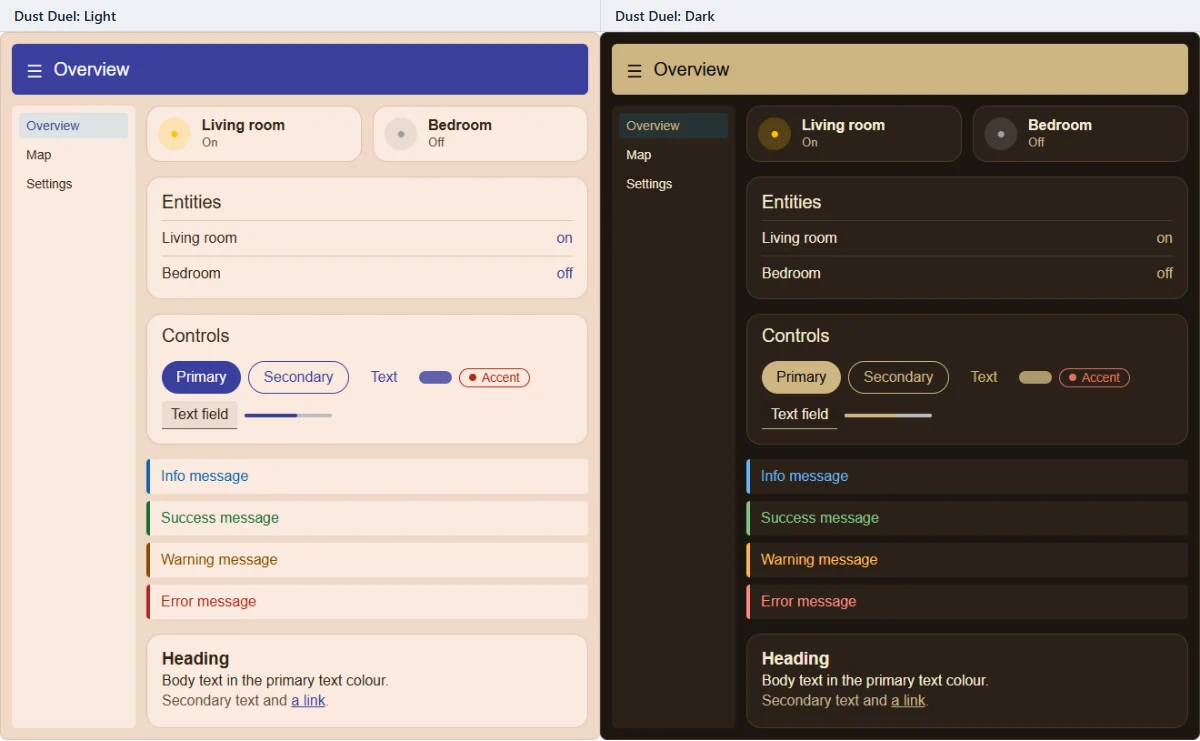
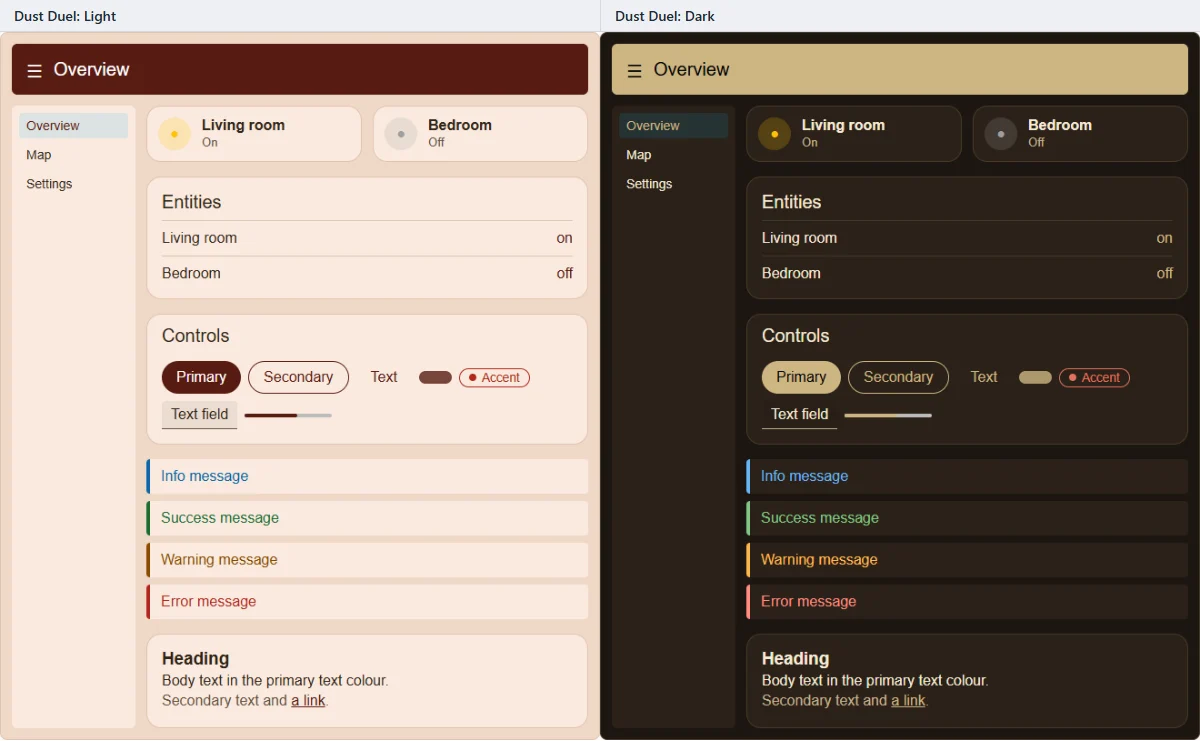
look-alike polish: every Sci-fi & fantasy header colour distinct (Dust Duel, Ochre Basin, Orbital Smelter, Ashen Keep, Silverleaf Glade), blurbs match the colours

diff --git a/src/theme-editor/presets/library.ts b/src/theme-editor/presets/library.ts
@@ -185,15 +185,15 @@ const PRESETS: ThemePreset[] = [
[17 lines of base64/hex data omitted]
 ];
 
 export const THEME_PRESET_LIBRARY: ThemePresetLibrary = { version: '1.1.0', presets: PRESETS };

diff --git a/documentation/themes/examples/README.md b/documentation/themes/examples/README.md
@@ -367,7 +367,7 @@ Off-white panels, burnt orange accent: navy ink by day, denim blue at night.
 
 ## Dust Duel
 
-Red-clay desert, indigo header, red accent; sand-gold by night.
+Red-clay desert, brick header, red accent; sand-gold by night.
 
 ![Dust Duel preview, light and dark modes side by side](images/dust-duel.webp)
 
@@ -385,19 +385,19 @@ Hot magenta and electric cyan neon on a dark city night.
 
 ## Ochre Basin
 
-Sun-baked ochre by day; at night an ochre glow on deep indigo.
+Sun-baked ochre, olive header; at night an ochre glow on deep indigo.
 
 ![Ochre Basin preview, light and dark modes side by side](images/ochre-basin.webp)
 
 ## Orbital Smelter
 
-Furnace-brown header on gunmetal steel with a coolant-cyan accent.
+Furnace-brown and steel-grey with a coolant-cyan accent; copper at night.
 
 ![Orbital Smelter preview, light and dark modes side by side](images/orbital-smelter.webp)
 
 ## Ashen Keep
 
-Charcoal iron and pale limestone with one deep red accent, calm and wintry.
+Charcoal iron and pale limestone; deep red accent, coral at night.
 
 ![Ashen Keep preview, light and dark modes side by side](images/ashen-keep.webp)
 
@@ -415,7 +415,7 @@ Oxblood red over a dark pine forest, moss-green panels, green-black nights.
 
 ## Silverleaf Glade
 
-Silver-teal leaves with touches of gold, calm and airy.
+Silver-teal leaves and gold touches by day; sage green by night.
 
 ![Silverleaf Glade preview, light and dark modes side by side](images/silverleaf-glade.webp)
 

diff --git a/CHANGELOG.md b/CHANGELOG.md
@@ -7,7 +7,7 @@ Magic Card uses calendar versions: year, month and a release number within the m
 ## Unreleased
 
 ### Changed
--   Six Sci-fi & fantasy presets got their own colours so they no longer look alike: Orbital Smelter, Ashen Keep and Crimson Pines were nearly the same, and Dust Duel, Ochre Basin and Candlelit Cloister were close to their neighbours. The preset ids and names are unchanged. Themes you already created from these presets stay as they were.
+-   Seven Sci-fi & fantasy presets got their own colours so they no longer look alike: Orbital Smelter, Ashen Keep and Crimson Pines were nearly the same, and Dust Duel, Ochre Basin, Candlelit Cloister and Silverleaf Glade were close to their neighbours. Within the group, no two presets share a similar header colour in light or in dark. The preset ids and names are unchanged. Themes you already created from these presets stay as they were.
 
 ## 2026.10.09 (2026-10-17)
 
